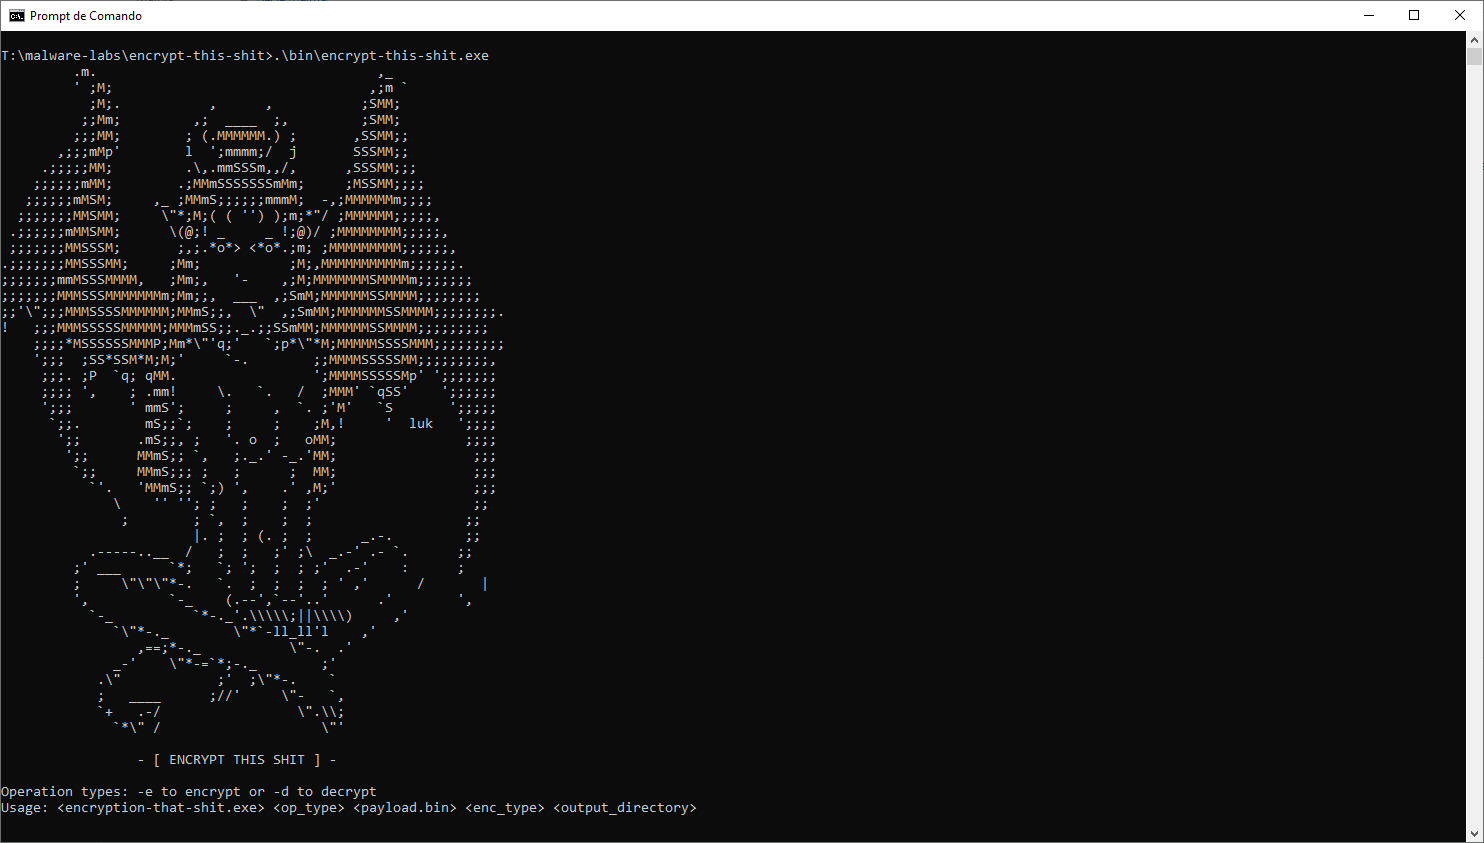
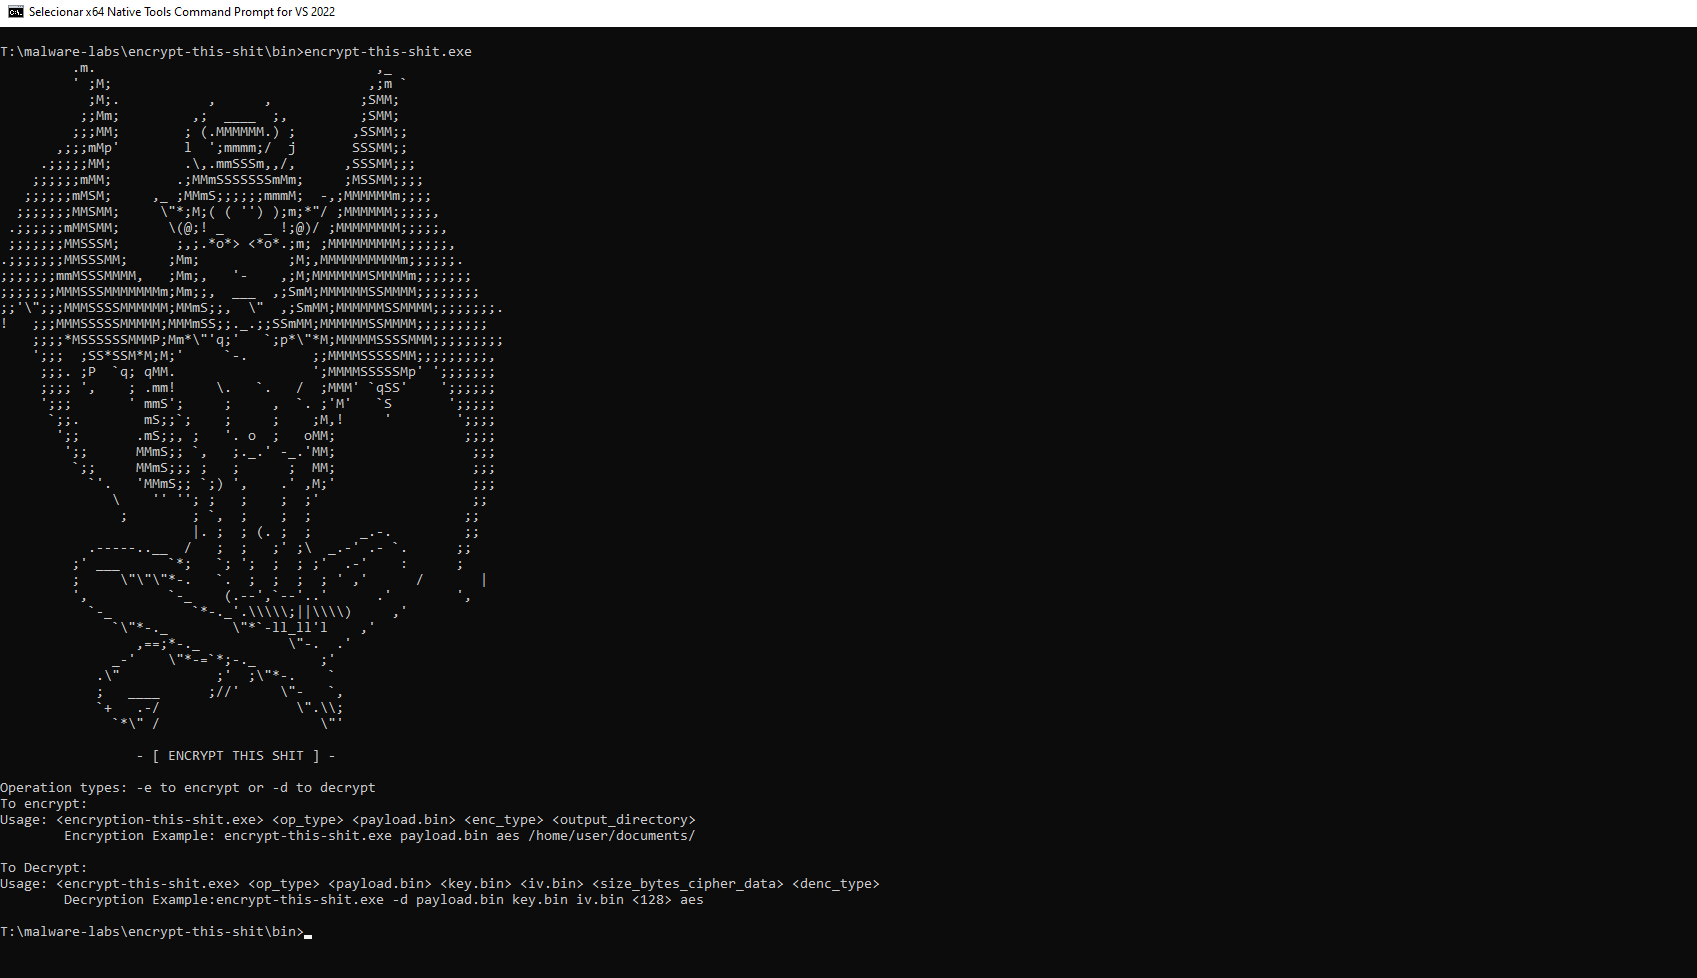
Implementado a descriptografia RC4 e atualizações no README

Changed region(s): [[0.0, 0.0, 1.0, 1.0], [0.341, 0.9561, 0.465, 0.987], [0.062, 0.7094, 0.093, 0.7402]]

diff --git a/src/main.c b/src/main.c
@@ -18,6 +18,9 @@ int main(int argc, char *argv[]) {
     PBYTE KeyCipher = NULL;
     PBYTE ivCipher = NULL;
 
+    PBYTE rc4_Data_in = NULL;
+    PBYTE rc4_key_in = NULL;
+
     if (argc < 3) {
         usage();
         return 1;
@@ -66,7 +69,7 @@ int main(int argc, char *argv[]) {
                 goto cleanup;
             }
 
-            printf("\nSize in Bytes of Encrypted Data: %d\n", aes_struct.cbCipherDataSize);
+            printf("\n[+] Size in Bytes of Encrypted Data: %d\n", aes_struct.cbCipherDataSize);
 
             // Zera a estrutura AES ao final do processo
             memset(&aes_struct, 0, sizeof(aes_struct));
@@ -80,6 +83,7 @@ int main(int argc, char *argv[]) {
             }
 
             fread(Data, 1, payloadSize, file);
+            
 
             USTRING rc4_Data = {
                 .Buffer = Data,
@@ -105,11 +109,13 @@ int main(int argc, char *argv[]) {
                 goto cleanup;
             }
             
-    
-            if(!generate_rc4_output(&Data, &Key, argv[4])) { 
+            if(!generate_rc4_output(&rc4_Data, &Key, argv[4])) { 
                 printf("Falha ao gerar seu RC4 output!\n");
                 goto cleanup;
             }
+
+            printf("\n[+] Size in Bytes of Encrypted Data: %d\n", rc4_Data.Length);
+            printf("\n[+] Size in Bytes of Key: %d\n", Key.Length);
             
         } else {
             usage();
@@ -119,12 +125,37 @@ int main(int argc, char *argv[]) {
 
     } else if (strcmp(argv[1], "-d") == 0) {
 
-        if (strcmp(argv[6], "aes") == 0) {
-
+        if(strcmp(argv[4], "rc4") == 0) {
             
-            DataCipher = read_bin_file(argv[2]); 
-            KeyCipher = read_bin_file(argv[3]);
-            ivCipher = read_bin_file(argv[4]);
+            funcToSystemFunction032 pSystemFunc032 = (funcToSystemFunction032) GetProcAddress(LoadLibraryA("Advapi32"), "SystemFunction032");
+
+            rc4_Data_in = read_bin_rc4_file(argv[2]);
+            rc4_key_in = read_bin_rc4_file(argv[3]);
+
+
+            USTRING rc4_data = {
+                .Buffer = rc4_Data_in,
+                .Length = atoi(argv[5]),
+                .MaximumLength = atoi(argv[5]),
+            };
+
+            USTRING rc4_key = {
+                .Buffer = rc4_key_in,
+                .Length = 32,
+                .MaximumLength = 32
+            };
+
+            pSystemFunc032(&rc4_data, &rc4_key);
+            // printf("BYTES = %d\n", strlen(argv[3]));
+
+            for(int i = 0; i < rc4_data.Length; i++) {
+                printf("0x%0.2X ", ((PBYTE)rc4_data.Buffer)[i]);
+            }
+            
+        } else if (strcmp(argv[6], "aes") == 0) {
+            DataCipher = read_bin_aes_file(argv[2]); 
+            KeyCipher = read_bin_aes_file(argv[3]);
+            ivCipher = read_bin_aes_file(argv[4]);
 
             aes_struct.pCipherData = DataCipher;
             aes_struct.pKey = KeyCipher;
@@ -142,10 +173,8 @@ int main(int argc, char *argv[]) {
                 printf("0x%0.2X ", ((PBYTE)aes_struct.pPlainData)[i]);
             }
 
-            // Decriptação AES
-        } else if (strcmp(argv[3], "rc4") == 0) {
-            // Decriptação RC4
         }
+        
 
     } else {
         usage();

diff --git a/src/utilities.c b/src/utilities.c
@@ -1,15 +1,19 @@
 #include "../include/utilities.h"
 
 VOID usage() {
-	printf("Operation types: -e to encrypt or -d to decrypt\n");
+	printf("Operation types: -e to encrypt or -d to decrypt\n\n");
 
     printf("To encrypt: \n");
-    printf("Usage: <encryption-this-shit.exe> <op_type> <payload.bin> <enc_type> <output_directory>\n\n");
-	printf("encrypt-this-shit.exe payload.bin aes /home/user/documents/\n");
+    printf("Usage: <encryption-this-shit.exe> <op_type> <payload.bin> <enc_type> <output_directory>\n");
+	printf("\tEncryption Example: encrypt-this-shit.exe -e payload.bin aes /home/user/documents/\n\n");
 
-    printf("\nTo Decrypt: \n");
-    printf("Usage: <encrypt-this-shit.exe> <op_type> <payload.bin> <key.bin> <iv.bin> <size_bytes_cipher_data> <denc_type> <output_directory>\n\n");
-    printf("encrypt-this-shit.exe -d payload.bin key.bin iv.bin <128> aes /home/user/documents");
+    printf("\nTo Decrypt AES: \n");
+    printf("Usage: <encrypt-this-shit.exe> <op_type> <payload.bin> <key.bin> <iv.bin> <size_bytes_cipher_data> <denc_type>\n");
+    printf("\tDecryption Example:encrypt-this-shit.exe -d payload.bin key.bin iv.bin <128> aes\n\n");
+
+    printf("To Decrypt RC4: \n");
+    printf("encryption-this-shit.exe -d payload.bin key.bin rc4 <size_bytes_buffer>\n");
+
 }
 
 VOID fillKey(BYTE* arr, size_t arr_size) {

diff --git a/src/rc4_enc.c b/src/rc4_enc.c
@@ -17,6 +17,7 @@ BOOL generate_rc4_output(PUSTRING data, PUSTRING key, char* basePath) {
         ret = FALSE;
     }
 
+
     fwrite(data->Buffer, sizeof(BYTE), data->Length, file);
     fclose(file);
 
@@ -30,4 +31,30 @@ BOOL generate_rc4_output(PUSTRING data, PUSTRING key, char* basePath) {
     fclose(file);
 
     return ret;
+}
+
+PBYTE read_bin_rc4_file(char* path) {
+    FILE *file = NULL;
+    DWORD payloadSize = NULL;
+
+    fopen_s(&file, path, "rb");
+    if(!file) {
+        printf("[#] Não foi possível ler o arquivo!\n");
+		exit(1);
+    }
+
+    fseek(file, 0, SEEK_END);
+    payloadSize = ftell(file);
+    fseek(file, 0, SEEK_SET);
+
+    PBYTE temp = HeapAlloc(GetProcessHeap(), 0, payloadSize);
+	if (!temp) {
+		printf("[#] Falha ao alocar recurso!\n");
+		exit(1);
+	}
+
+    fread(temp, 1, payloadSize, file);
+    fclose(file);
+
+    return temp;
 }

diff --git a/include/rc4_enc.h b/include/rc4_enc.h
@@ -14,5 +14,5 @@ typedef struct {
 typedef NTSTATUS (NTAPI* funcToSystemFunction032) (struct USTRING* Data, struct USTRING* Key);
 
 BOOL generate_rc4_output(struct USTRING *data, struct USTRING *key, char* basePath);
-
+PVOID read_bin_rc4_file(char* path);
 #endif

diff --git a/include/aes_enc.h b/include/aes_enc.h
@@ -21,6 +21,6 @@ typedef struct _AES {
 BOOL enc_aes_data(pAES pAes);
 BOOL generate_aes_output(pAES pAes, char* basePath);
 BOOL dec_aes_data(pAES pAes);
-PBYTE read_bin_file(char* path);
+PBYTE read_bin_aes_file(char* path);
 
 #endif

diff --git a/src/aes_enc.c b/src/aes_enc.c
@@ -305,7 +305,7 @@ BOOL dec_aes_data(pAES pAes) {
 	return bRetorno;
 }
 
-PBYTE read_bin_file(char* path) {
+PBYTE read_bin_aes_file(char* path) {
 	FILE *file = NULL;
 	DWORD payloadSize = NULL;
 

diff --git a/README.md b/README.md
@@ -16,6 +16,7 @@ O payload.bin deve ser um arquivo contendo os bytes brutos (raw bytes) do seu pa
 - Criptografia de Payload com AES-256 utilizando a Bcrypt da WinAPI
 - Criptografia de Payload com RC4 através da SystemFunction032 da Advapi
 - Salva todas as informações em uma pasta determinada por argv[4] (Key, IV e Payload para AES) e (Key e Payload se for RC4)
+- Permite visualizar o Output descriptografado para fins de debug
 
 <hr>
 
